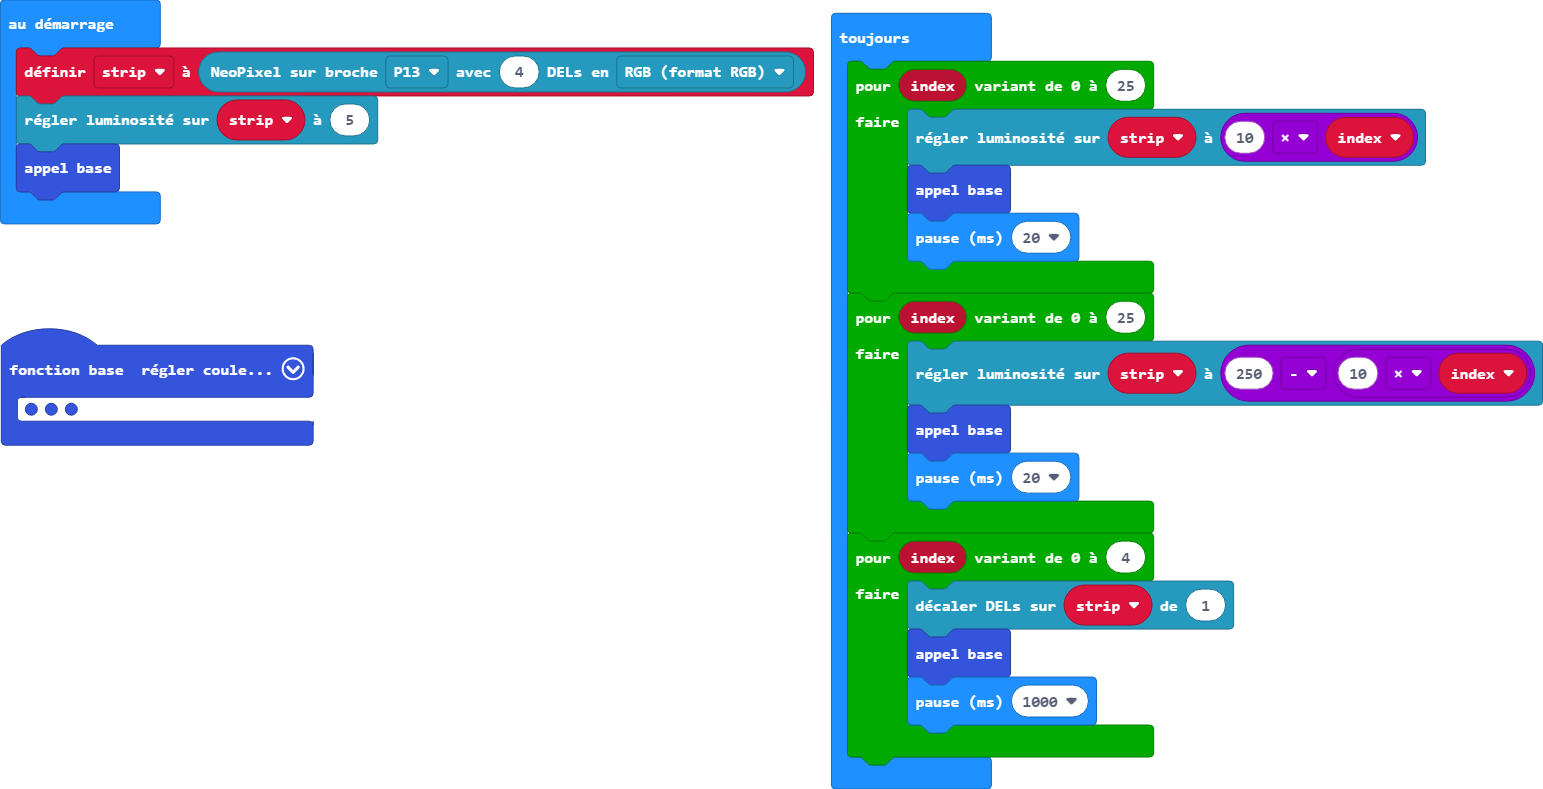
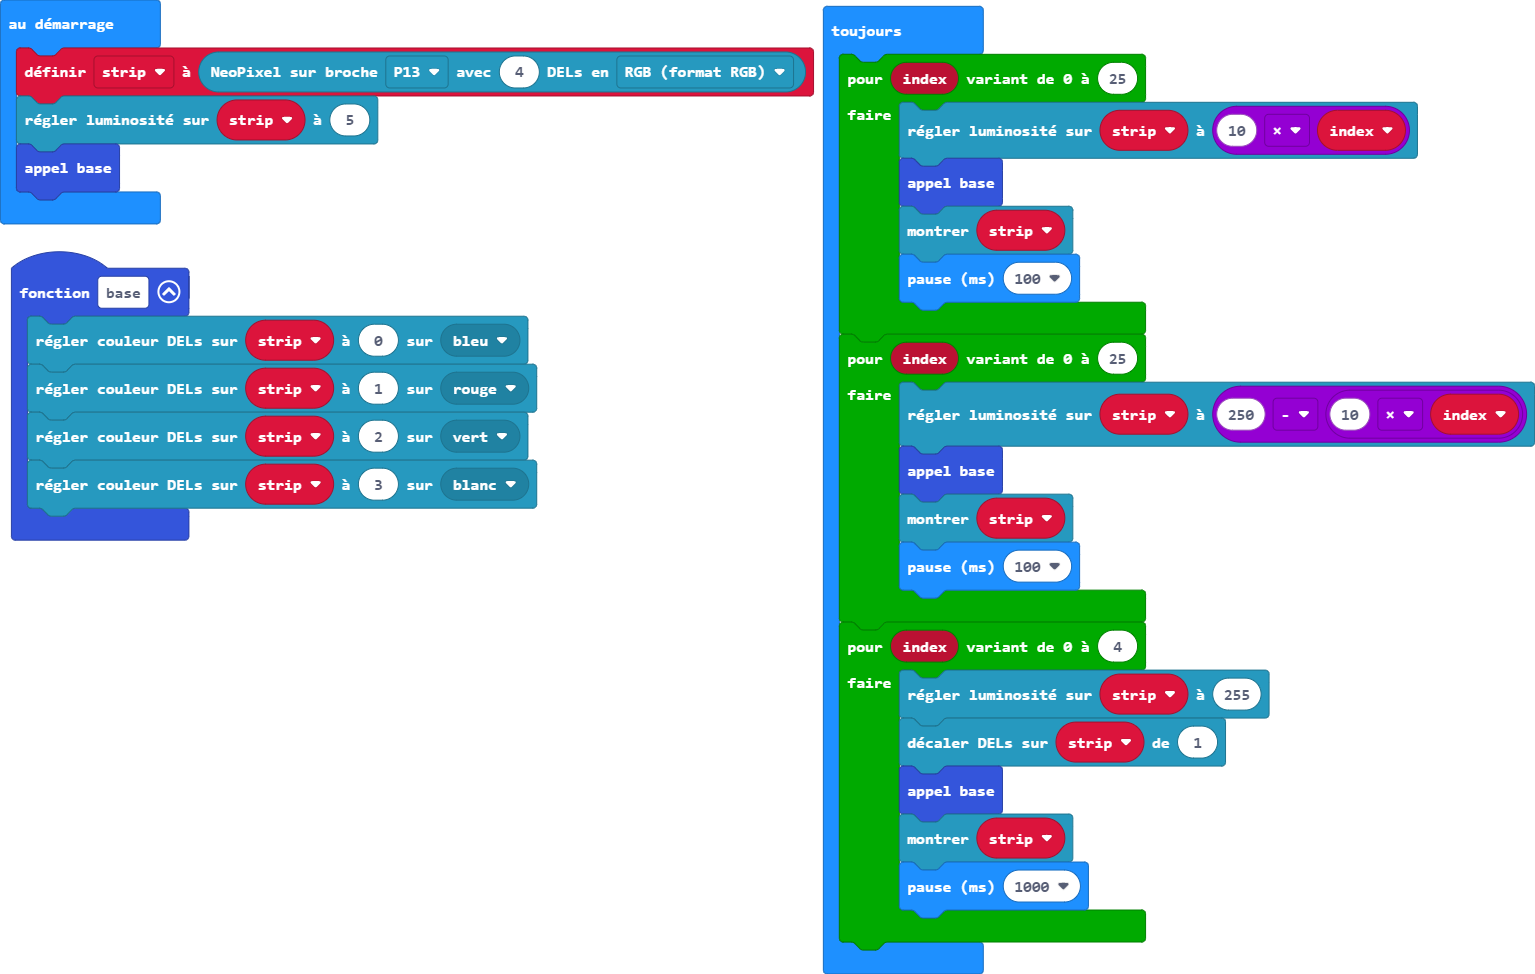
Mise à jour main.blocks, main.ts

Changed region(s): [[0.0, 0.0, 1.0, 1.0]]

diff --git a/main.ts b/main.ts
@@ -3,7 +3,6 @@ function base () {
     strip.setPixelColor(1, neopixel.colors(NeoPixelColors.Red))
     strip.setPixelColor(2, neopixel.colors(NeoPixelColors.Green))
     strip.setPixelColor(3, neopixel.colors(NeoPixelColors.White))
-    strip.show()
 }
 let strip: neopixel.Strip = null
 strip = neopixel.create(DigitalPin.P13, 4, NeoPixelMode.RGB)
@@ -13,16 +12,20 @@ basic.forever(function () {
     for (let index = 0; index <= 25; index++) {
         strip.setBrightness(10 * index)
         base()
-        basic.pause(20)
+        strip.show()
+        basic.pause(100)
     }
     for (let index = 0; index <= 25; index++) {
         strip.setBrightness(250 - 10 * index)
         base()
-        basic.pause(20)
+        strip.show()
+        basic.pause(100)
     }
     for (let index = 0; index <= 4; index++) {
+        strip.setBrightness(255)
         strip.shift(1)
         base()
+        strip.show()
         basic.pause(1000)
     }
 })
